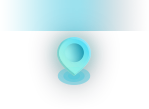
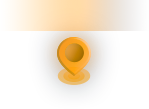
revise bug

Changed region(s): [[0.1342, 0.0, 0.7785, 0.7982]]

diff --git a/src/controller/views/Home.vue b/src/controller/views/Home.vue
@@ -3,25 +3,39 @@
     <div>
       <h3>单位分布</h3>
       <el-row>
-        <el-button type="primary" plain>企业</el-button>
-        <el-button type="primary" plain>商业小区</el-button>
-        <el-button type="primary" plain>动迁小区</el-button>
-        <el-button type="primary" plain>学校</el-button>
-        <el-button type="primary" plain>自然村</el-button>
+        <el-button
+          type="primary"
+          :key="item"
+          v-for="item in group1"
+          @click="btnClick(item)"
+          plain
+        >
+          {{ item }}
+        </el-button>
       </el-row>
       <h3>重点人员</h3>
       <el-row>
-        <el-button type="primary" plain>重点挑头</el-button>
-        <el-button type="primary" plain>积极参与</el-button>
-        <el-button type="primary" plain>关注人员</el-button>
+        <el-button
+          type="primary"
+          :key="item"
+          v-for="item in group2"
+          @click="btnClick(item)"
+          plain
+        >
+          {{ item }}
+        </el-button>
       </el-row>
       <h3>重点小区</h3>
       <el-row>
-        <el-button type="primary" plain>鑫茂东苑</el-button>
-        <el-button type="primary" plain>鑫茂花园</el-button>
-        <el-button type="primary" plain>市北锦苑</el-button>
-        <el-button type="primary" plain>合生颐庭</el-button>
-        <el-button type="primary" plain>市北花园</el-button>
+        <el-button
+          type="primary"
+          :key="item"
+          v-for="item in group3"
+          @click="btnClick(item)"
+          plain
+        >
+          {{ item }}
+        </el-button>
       </el-row>
       <h3>重点挑头、积极参与人员</h3>
       <el-row>
@@ -65,34 +79,51 @@
     <div>
       <h3>单位分布</h3>
       <el-row>
-        <el-button type="primary" plain>情报线索</el-button>
-        <el-button type="primary" plain>指令单</el-button>
-        <el-button type="primary" plain>落地处置</el-button>
-        <el-button type="primary" plain>技侦在控</el-button>
-        <el-button type="primary" plain>网侦在控</el-button>
+        <el-button
+          type="primary"
+          :key="item"
+          v-for="item in group8"
+          @click="btnClick(item)"
+          plain
+        >
+          {{ item }}
+        </el-button>
       </el-row>
       <h3>管控组工作量</h3>
       <el-row>
-        <el-button type="primary" plain>群众工作组</el-button>
-        <el-button type="primary" plain>多位一体组</el-button>
-        <el-button type="primary" plain>情报行动组</el-button>
+        <el-button
+          type="primary"
+          :key="item"
+          v-for="item in group9"
+          @click="btnClick(item)"
+          plain
+        >
+          {{ item }}
+        </el-button>
       </el-row>
       <h3>各类别情报统计</h3>
       <el-row>
-        <el-button type="primary" plain>12345</el-button>
-        <el-button type="primary" plain>派出所(人力情报)</el-button>
-        <el-button type="primary" plain>其他</el-button>
-        <el-button type="primary" plain>上级交办</el-button>
-        <el-button type="primary" plain>网侦</el-button>
-        <el-button type="primary" plain>信访</el-button>
+        <el-button
+          type="primary"
+          :key="item"
+          v-for="item in group10"
+          @click="btnClick(item)"
+          plain
+        >
+          {{ item }}
+        </el-button>
       </el-row>
       <h3>情报落地核查</h3>
       <el-row>
-        <el-button type="primary" plain>传唤审查</el-button>
-        <el-button type="primary" plain>见面约谈</el-button>
-        <el-button type="primary" plain>外地协作</el-button>
-        <el-button type="primary" plain>电话约谈</el-button>
-        <el-button type="primary" plain>刑事拘留</el-button>
+        <el-button
+          type="primary"
+          :key="item"
+          v-for="item in group11"
+          @click="btnClick(item)"
+          plain
+        >
+          {{ item }}
+        </el-button>
       </el-row>
     </div>
   </section>
@@ -103,20 +134,30 @@ export default {
   props: ["ws"],
   data() {
     return {
-      group1: [],
-      group2: [],
-      group3: [],
+      group1: ["企业", "商业小区", "动迁小区", "学校", "自然村"],
+      group2: ["重点挑头", "积极参与", "关注人员"],
+      group3: ["鑫茂东苑", "鑫茂花园", "市北锦苑", "合生颐庭", "市北花园"],
       group4: ["项光锋", "施保山", "王世海", "王禾英", "周福生"],
       group5: ["盛丽珍", "盛秀珍", "盛琴珍", "王伟江"],
       group6: [],
       group7: [],
-      group8: [],
-      group9: []
+      group8: ["情报线索", "指令单", "落地处置", "技侦在控", "网侦在控"],
+      group9: ["群众工作组", "多位一体组", "情报行动组"],
+      group10: [
+        "12345",
+        "派出所(人力情报)",
+        "其他",
+        "上级交办",
+        "网侦",
+        "信访"
+      ],
+      group11: ["传唤审查", "见面约谈", "外地协作", "电话约谈", "刑事拘留"]
     };
   },
   methods: {
     btnClick(name) {
-      this.ws.send(name, "http://50.78.138.6:7099");
+      console.log("the signal is:" + name);
+      this.ws.send(name);
     }
   }
 };

diff --git a/src/map/views/City.vue b/src/map/views/City.vue
@@ -11,7 +11,9 @@
       </el-checkbox>
       <div style="margin: 15px 0;"></div>
       <el-checkbox-group v-model="checked" @change="handleCheckedChange">
-        <el-checkbox v-for="option in options" :label="option" :key="option">{{option}}</el-checkbox>
+        <el-checkbox v-for="option in options" :label="option" :key="option">{{
+          option
+        }}</el-checkbox>
       </el-checkbox-group>
     </div>
   </div>
@@ -30,9 +32,9 @@ export default {
   data() {
     return {
       checkAll: true,
-      checked: ["学校", "小区"],
+      checked: ["学校", "小区", "企业"],
       options: options,
-      isIndeterminate: true
+      isIndeterminate: false
     };
   },
   methods: {

diff --git a/src/map/Map.vue b/src/map/Map.vue
@@ -10,7 +10,7 @@ import * as ZTMAP from "ztmap";
 export default {
   mounted() {
     let _this = this;
-    ZTMAP.MAPSTYLE.MAPURL = _this.$store.state.outerMapUrl;
+    ZTMAP.MAPSTYLE.MAPURL = _this.$store.state.innerMapUrl;
     ZTMAP.MAPSTYLE.MAPFONTSURL =
       location.origin + _this.$store.state.mapFontsUrl;
     ZTMAP.MAPSTYLE.MAPSPRITEURL =
@@ -67,7 +67,7 @@ body {
 
 .marker-factory {
   background: url(./assets/images/icon-factory.png) no-repeat center center;
-  color: rgb(132, 235, 222);
+  color: rgb(251, 148, 30);
   @include marker;
 }
 

diff --git a/src/controller/Controller.vue b/src/controller/Controller.vue
@@ -51,6 +51,9 @@ export default {
     this.ws.onclose = function() {
       console.log("Connection closed.");
     };
+    this.ws.onmessage = function(e) {
+      console.log(e.data);
+    };
   }
 };
 </script>
